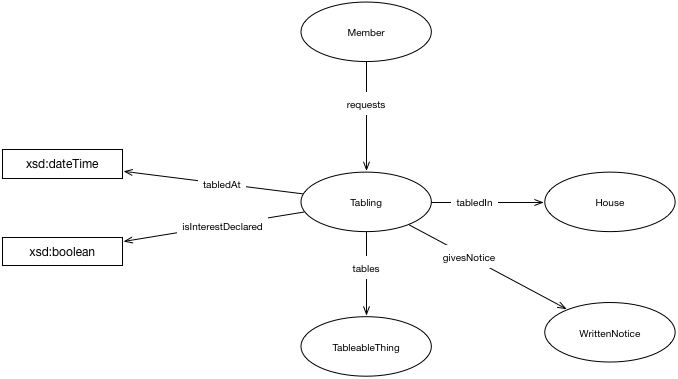
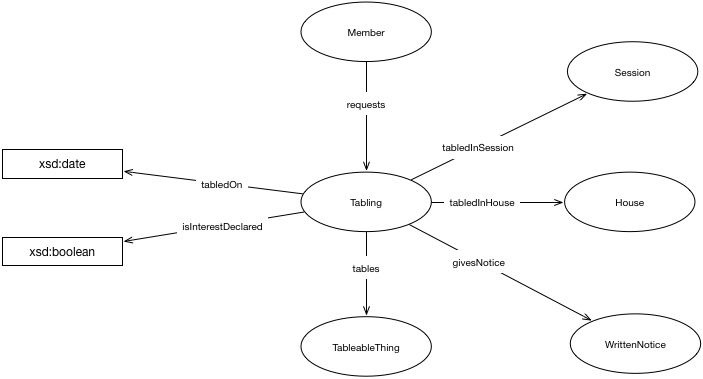
changed tabledAt to tabledOn, added link to session

diff --git a/tabling/tabling-ontology.html b/tabling/tabling-ontology.html
@@ -3,6 +3,7 @@
 
 
 
+
 		<link href="https://ukparliament.github.io/ontologies/assets/css.css" rel="stylesheet" type="text/css" />
 	</head>
 		<body>
@@ -28,6 +29,9 @@
 
 
 
-<div id="classes"><h2>Classes</h2><ul class="hlist"><li><a href="#d4e118" title="http://parliament.uk/ontologies/tabling/House">House</a></li><li><a href="#d4e130" title="http://parliament.uk/ontologies/tabling/Member">Member</a></li><li><a href="#d4e141" title="http://parliament.uk/ontologies/tabling/TableableThing">TableableThing</a></li><li><a href="#d4e152" title="http://parliament.uk/ontologies/tabling/Tabling">Tabling</a></li><li><a href="#d4e164" title="http://parliament.uk/ontologies/tabling/WrittenNotice">WrittenNotice</a></li></ul><div id="d4e118" class="entity"><a name="http://parliament.uk/ontologies/tabling/House"></a><h3>House<sup title="class" class="type-c">c</sup><span class="backlink"> back to <a href="#toc">ToC</a> or <a href="#classes">Class ToC</a></span></h3><p><strong>IRI:</strong> http://parliament.uk/ontologies/tabling/House</p><div class="comment"><span class="markdown">A parliamentary House e.g. the House of Lords.</span></div><dl class="description"><dt>is in range of</dt><dd><a href="#d4e53" title="http://parliament.uk/ontologies/tabling/tabledIn">tabledIn</a><sup title="object property" class="type-op">op</sup></dd></dl></div><div id="d4e130" class="entity"><a name="http://parliament.uk/ontologies/tabling/Member"></a><h3>Member<sup title="class" class="type-c">c</sup><span class="backlink"> back to <a href="#toc">ToC</a> or <a href="#classes">Class ToC</a></span></h3><p><strong>IRI:</strong> http://parliament.uk/ontologies/tabling/Member</p><div class="comment"><span class="markdown">A current or former Member of a House.</span></div><dl class="description"><dt>is in domain of</dt><dd><a href="#d4e38" title="http://parliament.uk/ontologies/tabling/requests">requests</a><sup title="object property" class="type-op">op</sup></dd></dl></div><div id="d4e141" class="entity"><a name="http://parliament.uk/ontologies/tabling/TableableThing"></a><h3>TableableThing<sup title="class" class="type-c">c</sup><span class="backlink"> back to <a href="#toc">ToC</a> or <a href="#classes">Class ToC</a></span></h3><p><strong>IRI:</strong> http://parliament.uk/ontologies/tabling/TableableThing</p><div class="comment"><span class="markdown">Any item of business which can be tabled e.g. a motion, parliamentary question, amendment or nomination. Note that not all motions are tabled e.g. manuscript amendments are amendments which are raised on the day the business occurs. In other words, no notice has been given. For this reason they do not appear on the day's business papers and are rarely selected for debate. Manuscript amendments do not appear on the marshalled list.</span></div><dl class="description"><dt>is in range of</dt><dd><a href="#d4e68" title="http://parliament.uk/ontologies/tabling/tables">tables</a><sup title="object property" class="type-op">op</sup></dd></dl></div><div id="d4e152" class="entity"><a name="http://parliament.uk/ontologies/tabling/Tabling"></a><h3>Tabling<sup title="class" class="type-c">c</sup><span class="backlink"> back to <a href="#toc">ToC</a> or <a href="#classes">Class ToC</a></span></h3><p><strong>IRI:</strong> http://parliament.uk/ontologies/tabling/Tabling</p><div class="comment"><span class="markdown">The act of tabling a business item into either the House of Commons or House of Lords. Tabling is the act of formally putting forward a question, a motion, an amendment or a nomination. Members do this by submitting it to the procedural clerks. The item will then appear in the next day's business papers as a written notice. Each House has a Table Office where parliamentary questions, motions for debate and, in the Commons, early day motions are tabled. Amendments to bills are often tabled in the Public Bill Offices of each House.</span></div><dl class="description"><dt>is in domain of</dt><dd><a href="#d4e22" title="http://parliament.uk/ontologies/tabling/givesNotice">givesNotice</a><sup title="object property" class="type-op">op</sup>, <a href="#d4e86" title="http://parliament.uk/ontologies/tabling/isInterestDeclared">isInterestDeclared</a><sup title="data property" class="type-dp">dp</sup>, <a href="#d4e101" title="http://parliament.uk/ontologies/tabling/tabledAt">tabledAt</a><sup title="data property" class="type-dp">dp</sup>, <a href="#d4e53" title="http://parliament.uk/ontologies/tabling/tabledIn">tabledIn</a><sup title="object property" class="type-op">op</sup>, <a href="#d4e68" title="http://parliament.uk/ontologies/tabling/tables">tables</a><sup title="object property" class="type-op">op</sup></dd><dt>is in range of</dt><dd><a href="#d4e38" title="http://parliament.uk/ontologies/tabling/requests">requests</a><sup title="object property" class="type-op">op</sup></dd></dl></div><div id="d4e164" class="entity"><a name="http://parliament.uk/ontologies/tabling/WrittenNotice"></a><h3>WrittenNotice<sup title="class" class="type-c">c</sup><span class="backlink"> back to <a href="#toc">ToC</a> or <a href="#classes">Class ToC</a></span></h3><p><strong>IRI:</strong> http://parliament.uk/ontologies/tabling/WrittenNotice</p><div class="comment"><span class="markdown">Official notice of an item of future business.</span></div><dl class="description"><dt>is in range of</dt><dd><a href="#d4e22" title="http://parliament.uk/ontologies/tabling/givesNotice">givesNotice</a><sup title="object property" class="type-op">op</sup></dd></dl></div></div><div id="objectproperties"><h2>Object Properties</h2><ul class="hlist"><li><a href="#d4e22" title="http://parliament.uk/ontologies/tabling/givesNotice">givesNotice</a></li><li><a href="#d4e38" title="http://parliament.uk/ontologies/tabling/requests">requests</a></li><li><a href="#d4e53" title="http://parliament.uk/ontologies/tabling/tabledIn">tabledIn</a></li><li><a href="#d4e68" title="http://parliament.uk/ontologies/tabling/tables">tables</a></li></ul><div id="d4e22" class="entity"><a name="http://parliament.uk/ontologies/tabling/givesNotice"></a><h3>givesNotice<sup title="object property" class="type-op">op</sup><span class="backlink"> back to <a href="#toc">ToC</a> or <a href="#objectproperties">Object Property ToC</a></span></h3><p><strong>IRI:</strong> http://parliament.uk/ontologies/tabling/givesNotice</p><div class="comment"><span class="markdown">Relates an act of tabling to a written notice.</span></div><div class="description"><dl><dt>has domain</dt><dd><a href="#d4e152" title="http://parliament.uk/ontologies/tabling/Tabling">Tabling</a><sup title="class" class="type-c">c</sup></dd><dt>has range</dt><dd><a href="#d4e164" title="http://parliament.uk/ontologies/tabling/WrittenNotice">WrittenNotice</a><sup title="class" class="type-c">c</sup></dd></dl></div></div><div id="d4e38" class="entity"><a name="http://parliament.uk/ontologies/tabling/requests"></a><h3>requests<sup title="object property" class="type-op">op</sup><span class="backlink"> back to <a href="#toc">ToC</a> or <a href="#objectproperties">Object Property ToC</a></span></h3><p><strong>IRI:</strong> http://parliament.uk/ontologies/tabling/requests</p><div class="comment"><span class="markdown">Relates a member to an act of tabling.</span></div><div class="description"><dl><dt>has domain</dt><dd><a href="#d4e130" title="http://parliament.uk/ontologies/tabling/Member">Member</a><sup title="class" class="type-c">c</sup></dd><dt>has range</dt><dd><a href="#d4e152" title="http://parliament.uk/ontologies/tabling/Tabling">Tabling</a><sup title="class" class="type-c">c</sup></dd></dl></div></div><div id="d4e53" class="entity"><a name="http://parliament.uk/ontologies/tabling/tabledIn"></a><h3>tabledIn<sup title="object property" class="type-op">op</sup><span class="backlink"> back to <a href="#toc">ToC</a> or <a href="#objectproperties">Object Property ToC</a></span></h3><p><strong>IRI:</strong> http://parliament.uk/ontologies/tabling/tabledIn</p><div class="comment"><span class="markdown">Relates an act of tabling to the House in which it happens.</span></div><div class="description"><dl><dt>has domain</dt><dd><a href="#d4e152" title="http://parliament.uk/ontologies/tabling/Tabling">Tabling</a><sup title="class" class="type-c">c</sup></dd><dt>has range</dt><dd><a href="#d4e118" title="http://parliament.uk/ontologies/tabling/House">House</a><sup title="class" class="type-c">c</sup></dd></dl></div></div><div id="d4e68" class="entity"><a name="http://parliament.uk/ontologies/tabling/tables"></a><h3>tables<sup title="object property" class="type-op">op</sup><span class="backlink"> back to <a href="#toc">ToC</a> or <a href="#objectproperties">Object Property ToC</a></span></h3><p><strong>IRI:</strong> http://parliament.uk/ontologies/tabling/tables</p><div class="comment"><span class="markdown">Relates an act of tabling to the business item being tabled.</span></div><div class="description"><dl><dt>has domain</dt><dd><a href="#d4e152" title="http://parliament.uk/ontologies/tabling/Tabling">Tabling</a><sup title="class" class="type-c">c</sup></dd><dt>has range</dt><dd><a href="#d4e141" title="http://parliament.uk/ontologies/tabling/TableableThing">TableableThing</a><sup title="class" class="type-c">c</sup></dd></dl></div></div></div><div id="dataproperties"><h2>Data Properties</h2><ul class="hlist"><li><a href="#d4e86" title="http://parliament.uk/ontologies/tabling/isInterestDeclared">isInterestDeclared</a></li><li><a href="#d4e101" title="http://parliament.uk/ontologies/tabling/tabledAt">tabledAt</a></li></ul><div id="d4e86" class="entity"><a name="http://parliament.uk/ontologies/tabling/isInterestDeclared"></a><h3>isInterestDeclared<sup title="data property" class="type-dp">dp</sup><span class="backlink"> back to <a href="#toc">ToC</a> or <a href="#dataproperties">Data Property ToC</a></span></h3><p><strong>IRI:</strong> http://parliament.uk/ontologies/tabling/isInterestDeclared</p><div class="comment"><span class="markdown">Relates an act of tabling to whether or not the Member doing the tabling declared an interest at the time it was tabled. Note that this is a boolean and does not describe or link to any definition of the nature of the interest. The interest declared against a tabling may or may not relate to an interest registered on the Register of Members' Financial Interests.</span></div><div class="description"><dl><dt>has domain</dt><dd><a href="#d4e152" title="http://parliament.uk/ontologies/tabling/Tabling">Tabling</a><sup title="class" class="type-c">c</sup></dd><dt>has range</dt><dd><span class="dotted" title="http://www.w3.org/2001/XMLSchema#boolean">boolean</span></dd></dl></div></div><div id="d4e101" class="entity"><a name="http://parliament.uk/ontologies/tabling/tabledAt"></a><h3>tabledAt<sup title="data property" class="type-dp">dp</sup><span class="backlink"> back to <a href="#toc">ToC</a> or <a href="#dataproperties">Data Property ToC</a></span></h3><p><strong>IRI:</strong> http://parliament.uk/ontologies/tabling/tabledAt</p><div class="comment"><span class="markdown">Relates an act of tabling to the date time at which it happened.</span></div><div class="description"><dl><dt>has domain</dt><dd><a href="#d4e152" title="http://parliament.uk/ontologies/tabling/Tabling">Tabling</a><sup title="class" class="type-c">c</sup></dd><dt>has range</dt><dd><span class="dotted" title="http://www.w3.org/2001/XMLSchema#dateTime">date time</span></dd></dl></div></div></div><div id="namespacedeclarations"><h2>Namespace Declarations <span class="backlink"> back to <a href="#toc">ToC</a></span></h2><dl><dt><em>default namespace</em></dt><dd>http://parliament.uk/ontologies/tabling/</dd><dt>owl</dt><dd>http://www.w3.org/2002/07/owl#</dd><dt>rdf</dt><dd>http://www.w3.org/1999/02/22-rdf-syntax-ns#</dd><dt>rdfs</dt><dd>http://www.w3.org/2000/01/rdf-schema#</dd><dt>terms</dt><dd>http://purl.org/dc/terms/</dd><dt>xsd</dt><dd>http://www.w3.org/2001/XMLSchema#</dd></dl></div><p class="endnote">This HTML document was obtained by processing the OWL ontology source code through <a href="http://www.essepuntato.it/lode">LODE</a>, <em>Live OWL Documentation Environment</em>, developed by <a href="http://www.essepuntato.it">Silvio Peroni</a>.</p></body></html>
+
+
+
+<div id="classes"><h2>Classes</h2><ul class="hlist"><li><a href="#d4e140" title="http://parliament.uk/ontologies/tabling/House">House</a></li><li><a href="#d4e151" title="http://parliament.uk/ontologies/tabling/Member">Member</a></li><li><a href="#d4e163" title="http://parliament.uk/ontologies/tabling/Session">Session</a></li><li><a href="#d4e174" title="http://parliament.uk/ontologies/tabling/TableableThing">TableableThing</a></li><li><a href="#d4e185" title="http://parliament.uk/ontologies/tabling/Tabling">Tabling</a></li><li><a href="#d4e197" title="http://parliament.uk/ontologies/tabling/WrittenNotice">WrittenNotice</a></li></ul><div id="d4e140" class="entity"><a name="http://parliament.uk/ontologies/tabling/House"></a><h3>House<sup title="class" class="type-c">c</sup><span class="backlink"> back to <a href="#toc">ToC</a> or <a href="#classes">Class ToC</a></span></h3><p><strong>IRI:</strong> http://parliament.uk/ontologies/tabling/House</p><div class="comment"><span class="markdown">A parliamentary House e.g. the House of Lords.</span></div><dl class="description"><dt>is in range of</dt><dd><a href="#d4e59" title="http://parliament.uk/ontologies/tabling/tabledInHouse">tabledInHouse</a><sup title="object property" class="type-op">op</sup></dd></dl></div><div id="d4e151" class="entity"><a name="http://parliament.uk/ontologies/tabling/Member"></a><h3>Member<sup title="class" class="type-c">c</sup><span class="backlink"> back to <a href="#toc">ToC</a> or <a href="#classes">Class ToC</a></span></h3><p><strong>IRI:</strong> http://parliament.uk/ontologies/tabling/Member</p><div class="comment"><span class="markdown">A current or former Member of a House.</span></div><dl class="description"><dt>is in domain of</dt><dd><a href="#d4e44" title="http://parliament.uk/ontologies/tabling/requests">requests</a><sup title="object property" class="type-op">op</sup></dd></dl></div><div id="d4e163" class="entity"><a name="http://parliament.uk/ontologies/tabling/Session"></a><h3>Session<sup title="class" class="type-c">c</sup><span class="backlink"> back to <a href="#toc">ToC</a> or <a href="#classes">Class ToC</a></span></h3><p><strong>IRI:</strong> http://parliament.uk/ontologies/tabling/Session</p><div class="comment"><span class="markdown">The period during which Parliament is active between the Queen's Speech and prorogation or dissolution. A session typically lasts for one year though isn't bound by that. Session periods are the same across both houses.</span></div><dl class="description"><dt>is in range of</dt><dd><a href="#d4e75" title="http://parliament.uk/ontologies/tabling/tabledInSession">tabledInSession</a><sup title="object property" class="type-op">op</sup></dd></dl></div><div id="d4e174" class="entity"><a name="http://parliament.uk/ontologies/tabling/TableableThing"></a><h3>TableableThing<sup title="class" class="type-c">c</sup><span class="backlink"> back to <a href="#toc">ToC</a> or <a href="#classes">Class ToC</a></span></h3><p><strong>IRI:</strong> http://parliament.uk/ontologies/tabling/TableableThing</p><div class="comment"><span class="markdown">Any item of business which can be tabled e.g. a motion, parliamentary question, amendment or nomination. Note that not all motions are tabled e.g. manuscript amendments are amendments which are raised on the day the business occurs. In other words, no notice has been given. For this reason they do not appear on the day's business papers and are rarely selected for debate. Manuscript amendments do not appear on the marshalled list.</span></div><dl class="description"><dt>is in range of</dt><dd><a href="#d4e90" title="http://parliament.uk/ontologies/tabling/tables">tables</a><sup title="object property" class="type-op">op</sup></dd></dl></div><div id="d4e185" class="entity"><a name="http://parliament.uk/ontologies/tabling/Tabling"></a><h3>Tabling<sup title="class" class="type-c">c</sup><span class="backlink"> back to <a href="#toc">ToC</a> or <a href="#classes">Class ToC</a></span></h3><p><strong>IRI:</strong> http://parliament.uk/ontologies/tabling/Tabling</p><div class="comment"><span class="markdown">The act of tabling a business item into either the House of Commons or House of Lords. Tabling is the act of formally putting forward a question, a motion, an amendment or a nomination. Members do this by submitting it to the procedural clerks. The item will then appear in the next day's business papers as a written notice. Each House has a Table Office where parliamentary questions, motions for debate and, in the Commons, early day motions are tabled. Amendments to bills are often tabled in the Public Bill Offices of each House.</span></div><dl class="description"><dt>is in domain of</dt><dd><a href="#d4e29" title="http://parliament.uk/ontologies/tabling/givesNotice">givesNotice</a><sup title="object property" class="type-op">op</sup>, <a href="#d4e107" title="http://parliament.uk/ontologies/tabling/isInterestDeclared">isInterestDeclared</a><sup title="data property" class="type-dp">dp</sup>, <a href="#d4e59" title="http://parliament.uk/ontologies/tabling/tabledInHouse">tabledInHouse</a><sup title="object property" class="type-op">op</sup>, <a href="#d4e75" title="http://parliament.uk/ontologies/tabling/tabledInSession">tabledInSession</a><sup title="object property" class="type-op">op</sup>, <a href="#d4e123" title="http://parliament.uk/ontologies/tabling/tabledOn">tabledOn</a><sup title="data property" class="type-dp">dp</sup>, <a href="#d4e90" title="http://parliament.uk/ontologies/tabling/tables">tables</a><sup title="object property" class="type-op">op</sup></dd><dt>is in range of</dt><dd><a href="#d4e44" title="http://parliament.uk/ontologies/tabling/requests">requests</a><sup title="object property" class="type-op">op</sup></dd></dl></div><div id="d4e197" class="entity"><a name="http://parliament.uk/ontologies/tabling/WrittenNotice"></a><h3>WrittenNotice<sup title="class" class="type-c">c</sup><span class="backlink"> back to <a href="#toc">ToC</a> or <a href="#classes">Class ToC</a></span></h3><p><strong>IRI:</strong> http://parliament.uk/ontologies/tabling/WrittenNotice</p><div class="comment"><span class="markdown">Official notice of an item of future business.</span></div><dl class="description"><dt>is in range of</dt><dd><a href="#d4e29" title="http://parliament.uk/ontologies/tabling/givesNotice">givesNotice</a><sup title="object property" class="type-op">op</sup></dd></dl></div></div><div id="objectproperties"><h2>Object Properties</h2><ul class="hlist"><li><a href="#d4e29" title="http://parliament.uk/ontologies/tabling/givesNotice">givesNotice</a></li><li><a href="#d4e44" title="http://parliament.uk/ontologies/tabling/requests">requests</a></li><li><a href="#d4e59" title="http://parliament.uk/ontologies/tabling/tabledInHouse">tabledInHouse</a></li><li><a href="#d4e75" title="http://parliament.uk/ontologies/tabling/tabledInSession">tabledInSession</a></li><li><a href="#d4e90" title="http://parliament.uk/ontologies/tabling/tables">tables</a></li></ul><div id="d4e29" class="entity"><a name="http://parliament.uk/ontologies/tabling/givesNotice"></a><h3>givesNotice<sup title="object property" class="type-op">op</sup><span class="backlink"> back to <a href="#toc">ToC</a> or <a href="#objectproperties">Object Property ToC</a></span></h3><p><strong>IRI:</strong> http://parliament.uk/ontologies/tabling/givesNotice</p><div class="comment"><span class="markdown">Relates an act of tabling to a written notice.</span></div><div class="description"><dl><dt>has domain</dt><dd><a href="#d4e185" title="http://parliament.uk/ontologies/tabling/Tabling">Tabling</a><sup title="class" class="type-c">c</sup></dd><dt>has range</dt><dd><a href="#d4e197" title="http://parliament.uk/ontologies/tabling/WrittenNotice">WrittenNotice</a><sup title="class" class="type-c">c</sup></dd></dl></div></div><div id="d4e44" class="entity"><a name="http://parliament.uk/ontologies/tabling/requests"></a><h3>requests<sup title="object property" class="type-op">op</sup><span class="backlink"> back to <a href="#toc">ToC</a> or <a href="#objectproperties">Object Property ToC</a></span></h3><p><strong>IRI:</strong> http://parliament.uk/ontologies/tabling/requests</p><div class="comment"><span class="markdown">Relates a member to an act of tabling.</span></div><div class="description"><dl><dt>has domain</dt><dd><a href="#d4e151" title="http://parliament.uk/ontologies/tabling/Member">Member</a><sup title="class" class="type-c">c</sup></dd><dt>has range</dt><dd><a href="#d4e185" title="http://parliament.uk/ontologies/tabling/Tabling">Tabling</a><sup title="class" class="type-c">c</sup></dd></dl></div></div><div id="d4e59" class="entity"><a name="http://parliament.uk/ontologies/tabling/tabledInHouse"></a><h3>tabledInHouse<sup title="object property" class="type-op">op</sup><span class="backlink"> back to <a href="#toc">ToC</a> or <a href="#objectproperties">Object Property ToC</a></span></h3><p><strong>IRI:</strong> http://parliament.uk/ontologies/tabling/tabledInHouse</p><div class="comment"><span class="markdown">Relates an act of tabling to the House in which it happens.</span></div><div class="description"><dl><dt>has domain</dt><dd><a href="#d4e185" title="http://parliament.uk/ontologies/tabling/Tabling">Tabling</a><sup title="class" class="type-c">c</sup></dd><dt>has range</dt><dd><a href="#d4e140" title="http://parliament.uk/ontologies/tabling/House">House</a><sup title="class" class="type-c">c</sup></dd></dl></div></div><div id="d4e75" class="entity"><a name="http://parliament.uk/ontologies/tabling/tabledInSession"></a><h3>tabledInSession<sup title="object property" class="type-op">op</sup><span class="backlink"> back to <a href="#toc">ToC</a> or <a href="#objectproperties">Object Property ToC</a></span></h3><p><strong>IRI:</strong> http://parliament.uk/ontologies/tabling/tabledInSession</p><div class="comment"><span class="markdown">Relates an act of tabling to the Session in which it happens.</span></div><div class="description"><dl><dt>has domain</dt><dd><a href="#d4e185" title="http://parliament.uk/ontologies/tabling/Tabling">Tabling</a><sup title="class" class="type-c">c</sup></dd><dt>has range</dt><dd><a href="#d4e163" title="http://parliament.uk/ontologies/tabling/Session">Session</a><sup title="class" class="type-c">c</sup></dd></dl></div></div><div id="d4e90" class="entity"><a name="http://parliament.uk/ontologies/tabling/tables"></a><h3>tables<sup title="object property" class="type-op">op</sup><span class="backlink"> back to <a href="#toc">ToC</a> or <a href="#objectproperties">Object Property ToC</a></span></h3><p><strong>IRI:</strong> http://parliament.uk/ontologies/tabling/tables</p><div class="comment"><span class="markdown">Relates an act of tabling to the business item being tabled.</span></div><div class="description"><dl><dt>has domain</dt><dd><a href="#d4e185" title="http://parliament.uk/ontologies/tabling/Tabling">Tabling</a><sup title="class" class="type-c">c</sup></dd><dt>has range</dt><dd><a href="#d4e174" title="http://parliament.uk/ontologies/tabling/TableableThing">TableableThing</a><sup title="class" class="type-c">c</sup></dd></dl></div></div></div><div id="dataproperties"><h2>Data Properties</h2><ul class="hlist"><li><a href="#d4e107" title="http://parliament.uk/ontologies/tabling/isInterestDeclared">isInterestDeclared</a></li><li><a href="#d4e123" title="http://parliament.uk/ontologies/tabling/tabledOn">tabledOn</a></li></ul><div id="d4e107" class="entity"><a name="http://parliament.uk/ontologies/tabling/isInterestDeclared"></a><h3>isInterestDeclared<sup title="data property" class="type-dp">dp</sup><span class="backlink"> back to <a href="#toc">ToC</a> or <a href="#dataproperties">Data Property ToC</a></span></h3><p><strong>IRI:</strong> http://parliament.uk/ontologies/tabling/isInterestDeclared</p><div class="comment"><span class="markdown">Relates an act of tabling to whether or not the Member doing the tabling declared an interest at the time it was tabled. Note that this is a boolean and does not describe or link to any definition of the nature of the interest. The interest declared against a tabling may or may not relate to an interest registered on the Register of Members' Financial Interests.</span></div><div class="description"><dl><dt>has domain</dt><dd><a href="#d4e185" title="http://parliament.uk/ontologies/tabling/Tabling">Tabling</a><sup title="class" class="type-c">c</sup></dd><dt>has range</dt><dd><span class="dotted" title="http://www.w3.org/2001/XMLSchema#boolean">boolean</span></dd></dl></div></div><div id="d4e123" class="entity"><a name="http://parliament.uk/ontologies/tabling/tabledOn"></a><h3>tabledOn<sup title="data property" class="type-dp">dp</sup><span class="backlink"> back to <a href="#toc">ToC</a> or <a href="#dataproperties">Data Property ToC</a></span></h3><p><strong>IRI:</strong> http://parliament.uk/ontologies/tabling/tabledOn</p><div class="comment"><span class="markdown">Relates an act of tabling to the date on which it happened.</span></div><div class="description"><dl><dt>has domain</dt><dd><a href="#d4e185" title="http://parliament.uk/ontologies/tabling/Tabling">Tabling</a><sup title="class" class="type-c">c</sup></dd><dt>has range</dt><dd><span class="dotted" title="http://www.w3.org/2001/XMLSchema#date">date</span></dd></dl></div></div></div><div id="namespacedeclarations"><h2>Namespace Declarations <span class="backlink"> back to <a href="#toc">ToC</a></span></h2><dl><dt><em>default namespace</em></dt><dd>http://parliament.uk/ontologies/tabling/</dd><dt>owl</dt><dd>http://www.w3.org/2002/07/owl#</dd><dt>rdf</dt><dd>http://www.w3.org/1999/02/22-rdf-syntax-ns#</dd><dt>rdfs</dt><dd>http://www.w3.org/2000/01/rdf-schema#</dd><dt>terms</dt><dd>http://purl.org/dc/terms/</dd><dt>xsd</dt><dd>http://www.w3.org/2001/XMLSchema#</dd></dl></div><p class="endnote">This HTML document was obtained by processing the OWL ontology source code through <a href="http://www.essepuntato.it/lode">LODE</a>, <em>Live OWL Documentation Environment</em>, developed by <a href="http://www.essepuntato.it">Silvio Peroni</a>.</p></body></html>
 
 
